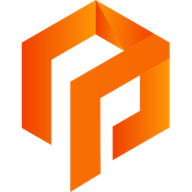
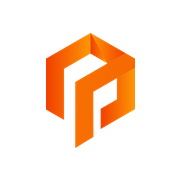
Chnags

diff --git a/src/lib/seo.ts b/src/lib/seo.ts
@@ -8,6 +8,7 @@ import {
   SITE_NAME,
   SITE_TAGLINE,
   SITE_URL,
+  SITE_ICON_VERSION,
   absoluteImageUrl,
   proxiedOgImageUrl,
   siteIconUrl,
@@ -17,16 +18,16 @@ import {
 
 function siteIconMetadata(origin = SITE_URL) {
   const icon = siteIconUrl(origin);
-  const logo = siteLogoUrl(origin);
-  const favicon = siteUrl("/favicon.ico", origin);
+  const favicon = siteUrl(`/favicon.ico?${SITE_ICON_VERSION}`, origin);
+  const apple = siteUrl(`/apple-touch-icon.png?${SITE_ICON_VERSION}`, origin);
   return {
     icons: {
       icon: [
         { url: favicon, sizes: "48x48", type: "image/x-icon" },
-        { url: icon, sizes: "192x192", type: "image/png" },
-        { url: logo, type: "image/png" },
+        { url: icon, type: "image/png" },
+        { url: apple, sizes: "192x192", type: "image/png" },
       ],
-      apple: [{ url: icon, sizes: "192x192", type: "image/png" }],
+      apple: [{ url: apple, sizes: "180x180", type: "image/png" }],
       shortcut: favicon,
     },
     other: {

diff --git a/src/lib/site.ts b/src/lib/site.ts
@@ -4,8 +4,10 @@ import { DEFAULT_SHARE_DOMAIN } from "./domains";
 export const SITE_NAME = "PropNetra";
 export const SITE_TAGLINE = "Property listings shared on PropNetra";
 export const SITE_LOGO_PATH = "/logo-cropped.png";
-/** Square 192x192 PNG WhatsApp shows beside the domain in link previews. */
-export const SITE_ICON_PATH = "/apple-touch-icon.png";
+/** Transparent mark only (no white/cream plate) — WhatsApp domain chip. */
+export const SITE_ICON_PATH = "/logo-cropped.png";
+/** Cache-bust when icon art changes (WhatsApp caches aggressively). */
+export const SITE_ICON_VERSION = "v9";
 
 export const SITE_URL = fallbackSiteUrl();
 
@@ -59,7 +61,7 @@ export function siteLogoUrl(origin = SITE_URL) {
 }
 
 export function siteIconUrl(origin = SITE_URL) {
-  return siteUrl(SITE_ICON_PATH, origin);
+  return `${siteUrl(SITE_ICON_PATH, origin)}?${SITE_ICON_VERSION}`;
 }
 
 export function absoluteImageUrl(url?: string | null, origin = SITE_URL) {

diff --git a/src/app/layout.js b/src/app/layout.js
@@ -6,12 +6,12 @@ export const metadata = {
   description: "Luxury architectural design and building services.",
   icons: {
     icon: [
-      { url: "/favicon.ico", sizes: "48x48", type: "image/x-icon" },
-      { url: "/apple-touch-icon.png", sizes: "192x192", type: "image/png" },
-      { url: "/logo-cropped.png", type: "image/png" },
+      { url: "/favicon.ico?v=9", sizes: "48x48", type: "image/x-icon" },
+      { url: "/logo-cropped.png?v=9", type: "image/png" },
+      { url: "/apple-touch-icon.png?v=9", sizes: "192x192", type: "image/png" },
     ],
-    apple: [{ url: "/apple-touch-icon.png", sizes: "192x192", type: "image/png" }],
-    shortcut: "/favicon.ico",
+    apple: [{ url: "/apple-touch-icon.png?v=9", sizes: "180x180", type: "image/png" }],
+    shortcut: "/favicon.ico?v=9",
   },
 };
 

diff --git a/src/proxy.ts b/src/proxy.ts
@@ -64,7 +64,9 @@ function handleShareHost(request: NextRequest) {
     pathname.startsWith("/apple-icon") ||
     pathname === "/apple-touch-icon.png" ||
     pathname === "/apple-touch-icon-precomposed.png" ||
+    pathname === "/brand-icon-192.png" ||
     pathname === "/favicon.ico" ||
+    pathname === "/favicon.png" ||
     pathname === "/logo-cropped.png"
   ) {
     return NextResponse.next();
